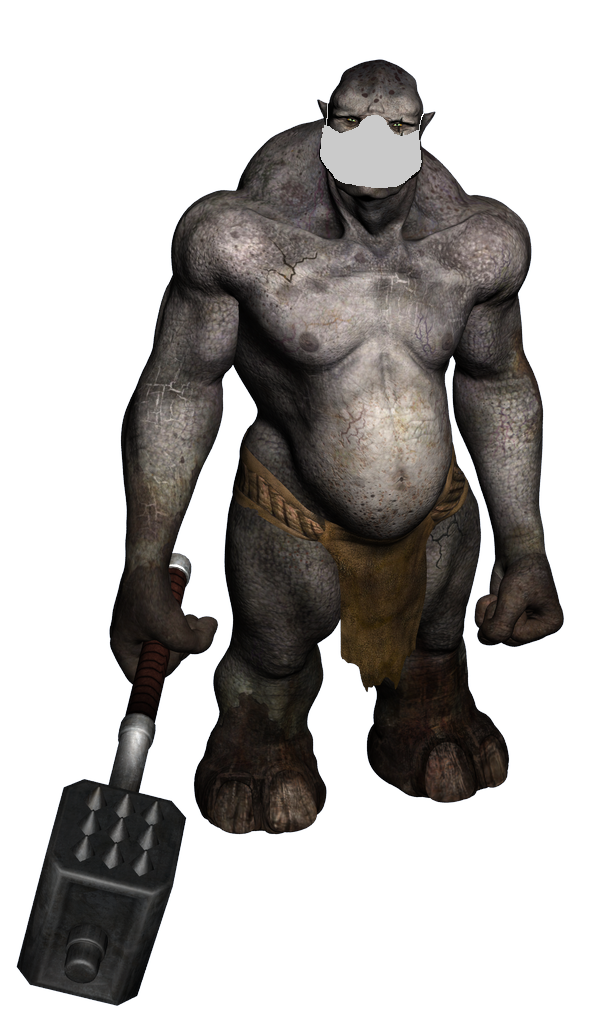
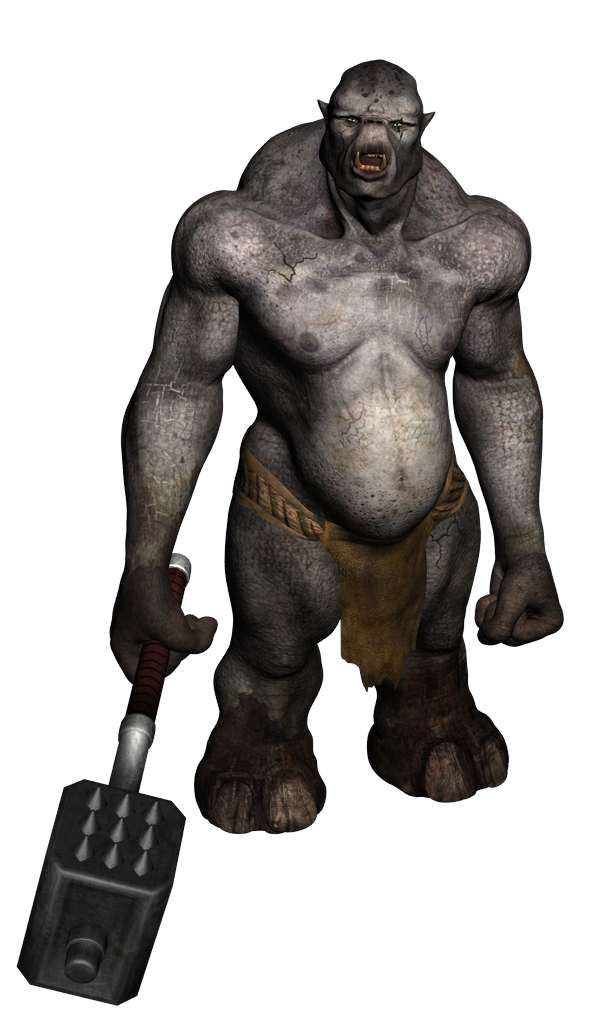
Roll back Covid changes

Changed region(s): [[0.5126, 0.0938, 0.7236, 0.1875]]

diff --git a/gemp-lotr/gemp-lotr-async/src/main/web/index.html b/gemp-lotr/gemp-lotr-async/src/main/web/index.html
@@ -168,12 +168,8 @@
 
 </head>
 <body bgcolor="#000000">
-<div style="float: left; height: 95%; width: 30%;"><br/><br/><img src="images/covid.png"/></div>
-<div style="float: right; height: 95%"><img src="images/man.png" height="95%"/></div>
-<div style="float: right; height: 5%; color:white;">
-    <div style="font-size: 500%">#StayAtHome</div>
-    <div style="font-size: 180%">There are still monsters to be slain.</div>
-</div>
+<div style="float: left;height: 98%"><img src="images/troll.png" height="98%"/></div>
+<div style="float: right;height: 98%"><img src="images/man.png" height="98%"/></div>
 <div class="centerContainer">
     <div class="status" style="color:#ffffff;"></div>
     <div class="error" style="color: #ff0000;"></div>
